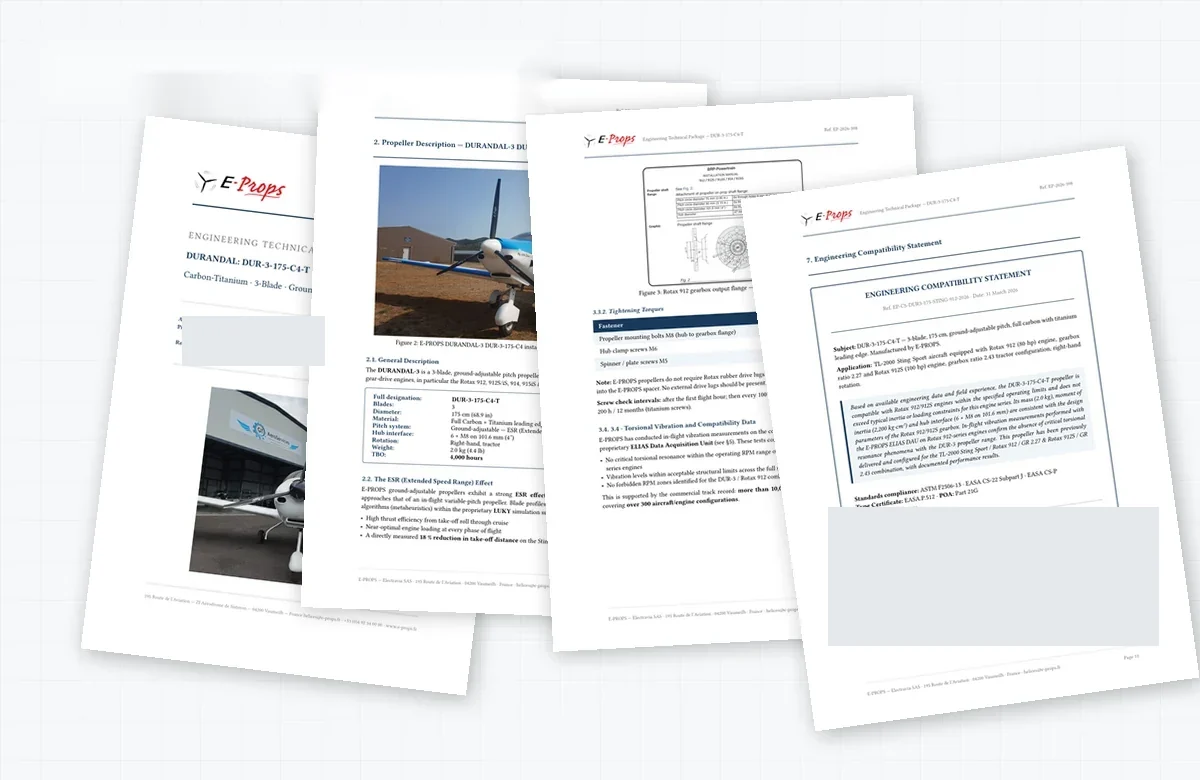
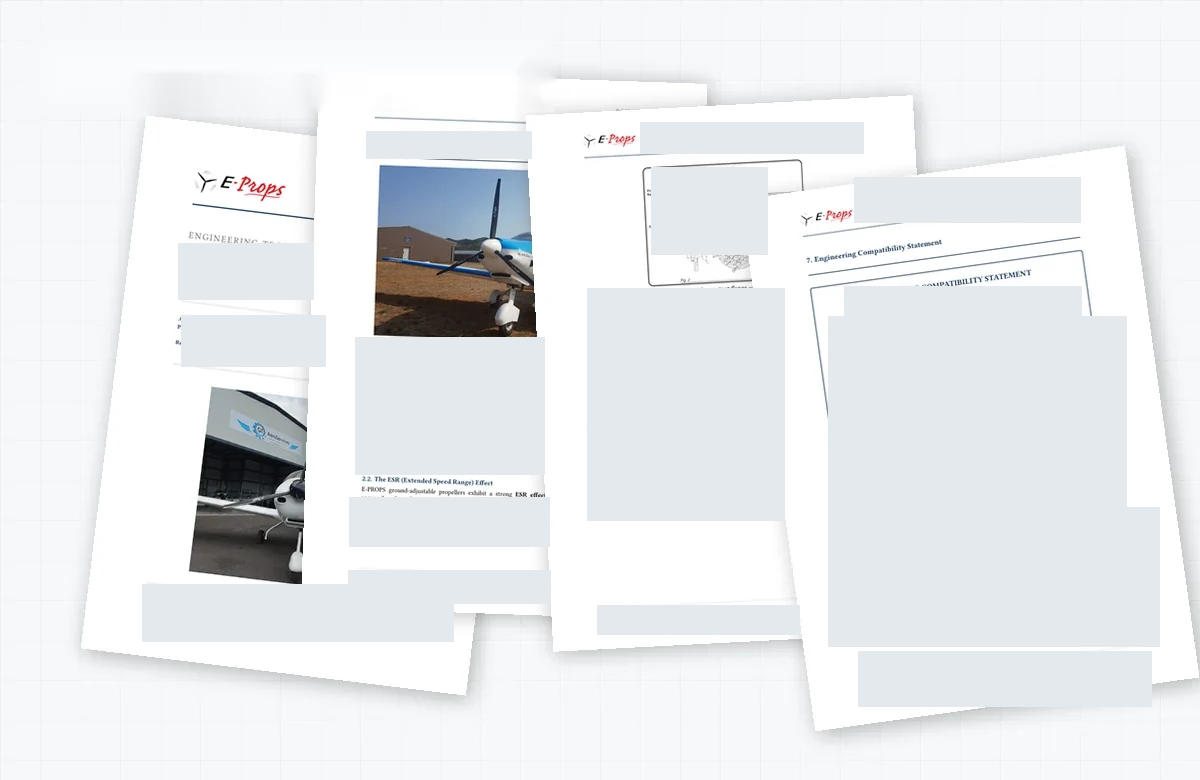
Correct owner-facing copy, case presentation, FAQ anchors and proof redactions

diff --git a/templates/site.js b/templates/site.js
@@ -11,15 +11,12 @@ const emit=(name,topic)=>document.dispatchEvent(new CustomEvent('lca:measurement
 document.querySelectorAll('a[href^="tel:"],a[href^="sms:"]').forEach(a=>a.addEventListener('click',()=>emit(a.href.startsWith('tel:')?'contact_call_click':'contact_text_click')));
 const form=document.querySelector('#aircraft-intake-form');
 if(form){
- document.querySelector('#native-phone').hidden=true;
- for(const option of form.elements.preferred_contact.options)option.disabled=false;
- form.noValidate=true;
  const method=form.elements.preferred_contact,email=form.elements.email,phone=form.elements.best_contact,topic=form.elements.need_type,status=document.querySelector('#form-status'),send=form.querySelector('button[type=submit]');
  let busy=false,started=false;
  const topics=new Set([...topic.options].map(o=>o.value));
  const legacy={'Prebuy':'prebuy','Records review':'records','E-PROPS propeller support':'eprops','ROTAX Alert Service Bulletin / applicability review':'notice','ROTAX engine systems / troubleshooting':'symptom','Avionics / Electrical / Panel Support':'avionics','Five-Year Rubber Hose Package':'service'};
  const query=new URLSearchParams(location.search),requested=query.get('topic')||query.get('need')||query.get('need_type')||(query.get('request')==='rotax-asb-review'?'notice':'');
- if(requested){const value=topics.has(requested)?requested:legacy[requested];if(value){topic.value=value;const info=document.querySelector('#topic-prefill');info.hidden=false;info.textContent='Selected topic: '+topic.selectedOptions[0].textContent+'. You can change it below.'}}
+ if(requested){const value=topics.has(requested)?requested:(Object.hasOwn(legacy,requested)?legacy[requested]:null);if(topics.has(value)){topic.value=value;const info=document.querySelector('#topic-prefill');info.hidden=false;info.textContent='Selected topic: '+topic.selectedOptions[0].textContent+'. You can change it below.'}}
  // Remove tracking query values from the address without copying them into the payload.
  if(location.search)history.replaceState(null,'',location.pathname+location.hash);
  const sync=()=>{email.required=method.value==='email';phone.required=['phone','text'].includes(method.value);document.querySelector('#email-required').textContent=email.required?' (required)':'';document.querySelector('#phone-required').textContent=phone.required?' (required)':''};
@@ -44,4 +41,7 @@ if(form){
   }catch{announce('We could not confirm submission. Your details remain in the form. Call or text the shop before resending to avoid a possible duplicate.',false)}
   finally{clearTimeout(timer);busy=false;send.disabled=false;send.textContent='Send inquiry';form.removeAttribute('aria-busy')}
  });
+ document.querySelector('#native-phone').hidden=true;
+ for(const option of form.elements.preferred_contact.options)option.disabled=false;
+ form.noValidate=true;
 }

diff --git a/templates/site.css b/templates/site.css
@@ -211,6 +211,8 @@ textarea { min-height: 100px; }
 .case-panel { display: grid; align-content: center; justify-items: start; gap: 12px; padding: clamp(16px,3vw,40px); border-radius: 8px; background: var(--navy); }
 .case-panel .stage-rail::before { background: white; }
 .case-panel .stage-rail li { border-color: white; }
+.case-panel .stage-rail .done { background: white; color: var(--navy); }
+.case-panel .stage-rail .pending { background: transparent; color: white; }
 .case-panel .pill { margin: 0; }
 .case-evidence { display: grid; grid-template-columns: repeat(2,minmax(0,1fr)); align-items: start; gap: 16px; }
 .case-evidence:not(:empty) { margin-block: 20px; }
@@ -236,15 +238,17 @@ textarea { min-height: 100px; }
   .case-intro h2 { font-size: clamp(1.8rem,2.2vw,2.1rem); }
   .case-intro h3 { font-size: 1.2rem; }
   .case-intro .stage-rail { margin-top: 0; }
-  .case-stages section { display: block; padding-block: 9px; }
+  .case-stages section { display: block; padding-block: 7px; }
   .case-stages h3,.case-stages p { display: inline; }
   .case-stages h3 { margin-right: .5em; }
   .case-evidence,.case-strip { grid-template-columns: repeat(3,minmax(0,1fr)); }
   .case-strip { max-width: none; margin-top: 16px; }
   .case-evidence .document { grid-column: auto; }
+  .case-evidence .document:has([data-subject="ndt-magnetic-particle-report"]) { grid-column: span 2; }
+  .legend b { overflow-wrap: normal; }
+  .legend { display: grid; grid-template-columns: repeat(4,minmax(0,1fr)); gap: 16px; }
 }
 @media(min-width:1200px) {
-  .legend { display: grid; grid-template-columns: repeat(7,minmax(0,1fr)); gap: 16px; }
   .method:has(> :nth-child(7)) { grid-template-columns: repeat(12,minmax(0,1fr)); }
   .method:has(> :nth-child(7)) li { grid-column: span 3; }
   .method:has(> :nth-child(7)) li:nth-child(n+5) { grid-column: span 4; }

diff --git a/tools/compositions.py b/tools/compositions.py
@@ -63,9 +63,10 @@ def home(p,site,img,actions,cases,notices):
     result+=band(f'<div class="intro"><h2>{E(title)}</h2><p>{E(intro)} <a href="/start-with-the-symptom">Start with the symptom</a></p></div><div class="tiles">{tiles}</div>')
     label,title,body=p['system']
     result+='<section class="system-band">'+img.figure('aircraft-open-cowling-under-canopy-800','band')+f'<div><p class="eyebrow">{E(label)}</p><h2>{E(title)}</h2><p>{E(body)}</p>{chips(site["systems"])}<a href="/the-lima-charlie-aero-standard">How we work →</a></div></section>'
-    title,intro=p['stories']
+    title,intro=p['stories'] if cases else p['empty_stories']
+    work_link='Explore our work' if cases else 'See more of our work'
     stories=case_stories(cases[:2],img.figure,True) if cases else gallery(p['proof'][:4],img)
-    result+=band(f'<div class="intro"><h2>{E(title)}</h2><p>{E(intro)}</p></div>{stories}<a href="/our-work">Explore our work</a>','sand')
+    result+=band(f'<div class="intro"><h2>{E(title)}</h2><p>{E(intro)}</p></div>{stories}<a href="/our-work">{work_link}</a>','sand')
     result+=band('<h2>'+E(p['method'])+'</h2>'+step_list(p['steps']))
     if notices:result+=band(notices,'notice-section')
     label,title,body=p['founder']
@@ -107,7 +108,7 @@ def service_page(key,p,pages,site,img,actions,cases,notices,table):
     proof=p['proof']
     if key=='rotax-gearbox-propeller-vibration':
         pair=[i for i in proof if 'dynavibe-' in i['proof_id'] and ('good-' in i['proof_id'] or 'bad-' in i['proof_id'])]
-        result+=band('<h2>Before and after the correction</h2><div class="pair">'+''.join(img.figure(i['proof_id'],caption=t) for i,t in zip(sorted(pair,key=lambda i:i['proof_id']),['Initial measurement: 1.27 IPS.','After correction: 0.04 IPS.']))+'</div><p>Measured 1.27 IPS → 0.04 IPS after correction.</p>')
+        result+=band('<h2>Measured, not guessed</h2><div class="pair">'+''.join(img.figure(i['proof_id'],caption=i['caption']) for i in pair)+'</div>')
         proof=[i for i in proof if i not in pair]
     result+=band('<h2>From the work</h2>'+gallery(proof[:4],img))
     used.update(i for i, section in enumerate(sections)
@@ -116,7 +117,7 @@ def service_page(key,p,pages,site,img,actions,cases,notices,table):
     result+=band('<h2>Service details</h2>'+table+themed_sections(p,site,used,extra),'sand')
     if key in ['rotax-915-916-turbo-ems-support','rotax-gearbox-propeller-vibration']:result+=band(notices)
     related=related_cases(cases,plan.get('cases',[]))
-    return result+band('<aside class="limits"><h2>Authorization &amp; limits</h2><p>'+E(model['limits'])+'</p></aside>'+related+links([('/services','All services'),('/our-work','Our Work')]))+band(actions(p['topic']),'final')
+    return result+band('<aside class="limits"><h2>'+E(model.get('limits_heading','Authorization & limits'))+'</h2><p>'+E(model['limits'])+'</p></aside>'+related+links([('/services','All services'),('/our-work','Our Work')]))+band(actions(p['topic']),'final')
 
 def showcase(key,p,pages,site,img,actions,cases,notices,table):
     if key=='index':return home(p,site,img,actions,cases,notices)
@@ -124,7 +125,8 @@ def showcase(key,p,pages,site,img,actions,cases,notices,table):
     result=hero(p,key,img,actions)
     if key=='our-work':
         legend='<ol class="legend">'+''.join(f'<li><b>{name}</b> {text}</li>' for name,text in STAGES.items())+'</ol>'
-        return result+band('<h2>How we document the work</h2>'+legend)+band(case_stories(cases,img.figure) if cases else '<h2>Evidence from the work</h2>'+gallery(pages['index']['proof'][:4],img)+links([('/rotax-installation-review','Installation review'),('/rotax-gearbox-propeller-vibration','Vibration measurements')]),'sand')+band('<aside class="limits"><h2>What these cases do and don’t show</h2><p>'+E(p['limits'])+'</p></aside>'+actions())
+        limits_title = 'What these cases do and don’t show' if cases else 'What these photographs show'
+        return result+band('<h2>How we document the work</h2>'+legend)+band(case_stories(cases,img.figure) if cases else '<h2>Evidence from the work</h2>'+gallery(pages['index']['proof'][:4],img)+links([('/rotax-installation-review','Installation review'),('/rotax-gearbox-propeller-vibration','Vibration measurements')]),'sand')+band('<aside class="limits"><h2>'+limits_title+'</h2><p>'+E(p['limits'])+'</p></aside>'+actions())
     if key=='services':
         rows=[(t['destination'],t['title'],t.get('index_image',t['image']),t['line']) for t in pages['index']['tiles']]
         result+=band('<h2>Aircraft systems and service paths</h2>'+system_map(site))+band('<h2>Choose a starting point</h2>'+service_index(rows,img),'sand')
@@ -142,7 +144,9 @@ def showcase(key,p,pages,site,img,actions,cases,notices,table):
     for n,s in enumerate([] if p.get('themes') else p['sections']):
         if key=='the-lima-charlie-aero-standard' and s['heading'][:1].isdigit():continue
         ident='credentials' if key=='contact' and n==1 else f'section-{n+1}'
-        if len(p['sections'])>5 or key=='faq':substantive.append(details(s,site,ident))
+        if key=='faq':
+            substantive.append(f'<div id="{ident}">'+details(s,site,f'question-{n+1}')+'</div>')
+        elif len(p['sections'])>5:substantive.append(details(s,site,ident))
         else:substantive.append(f'<section id="{ident}"><h2>{E(s["heading"])}</h2>'+paragraph(s,site)+'</section>')
     if substantive:result+=band('<div class="prose">'+''.join(substantive)+'</div>')
     if p.get('proof') and key!='the-lima-charlie-aero-standard':result+=band('<h2>From the work</h2>'+gallery(p['proof'],img),'sand')

diff --git a/tools/redact_proof.py b/tools/redact_proof.py
@@ -1,17 +1,40 @@
-"""Regenerate privacy-safe document previews from an approved baseline export.
-Usage: python3 tools/redact_proof.py /path/to/exported/baseline
-No source documents are copied into the public output.
-"""
+"""Regenerate the two publication derivatives from the 3d48ea6 baseline export."""
 from pathlib import Path
-from PIL import Image,ImageDraw
-import sys
-R=Path(__file__).resolve().parents[1];B=Path(sys.argv[1]);dest=R/'assets-src/images/proof'
-# Coordinates are normalized against the inspected 1200px baseline previews.
-specs={
-'eprops-install-checklist-preview-1200':[(.12,.252,.45,.375),(.119,.63,.465,.805),(.55,.30,.93,.368),(.55,.423,.935,.468),(.55,.758,.92,.807)],
-'eprops-engineering-packet-fanout-1200-clean':[(.152,.405,.27,.468),(.69,.65,.965,.827)]
+import argparse
+from PIL import Image, ImageDraw
+
+ROOT = Path(__file__).resolve().parents[1]
+# Inclusive native pixel coordinates. The packet repeats identifiers in running
+# heads, figure legends, tables and footers on several overlapping sheets.
+MASKS = {
+    'eprops-install-checklist-preview-1200': ((1200, 760), [
+        (144,191,542,286), (142,478,559,614), (660,228,1117,280),
+        (660,321,1123,356), (660,576,1105,614),
+        (146,137,580,155), (147,646,312,664), (663,305,886,323),
+    ]),
+    'eprops-engineering-packet-fanout-1200-clean': ((1200, 780), [
+        (181,315,325,366), (828,507,1159,646),
+        (178,243,313,299), (142,584,453,641), (366,131,531,158),
+        (355,337,544,474), (349,497,549,546), (348,570,550,603),
+        (640,122,863,153), (651,167,767,254), (587,288,784,520),
+        (597,605,799,634), (854,177,1080,222), (844,286,1081,320),
+        (828,316,1126,509), (858,651,1151,706),
+    ]),
 }
-for name,rects in specs.items():
- src=B/'assets/images/eprops/proof'/f'{name}.webp';im=Image.open(src).convert('RGB');d=ImageDraw.Draw(im)
- for x1,y1,x2,y2 in rects:d.rectangle((round(x1*im.width),round(y1*im.height),round(x2*im.width),round(y2*im.height)),fill='#e4e9ed')
- im.save(dest/f'{name}.webp','WEBP',quality=86,method=6)
+
+def redact(baseline):
+    for name, (size, masks) in MASKS.items():
+        src = baseline / 'assets/images/eprops/proof' / (name + '.webp')
+        with Image.open(src) as original:
+            if original.size != size:
+                raise ValueError(f'Unexpected source dimensions for {name}')
+            image = original.convert('RGB')
+        draw = ImageDraw.Draw(image)
+        for rect in masks:
+            draw.rectangle(rect, fill='#e4e9ed')
+        image.save(ROOT/'assets-src/images/proof'/(name+'.webp'), lossless=True, method=6)
+
+if __name__ == '__main__':
+    parser = argparse.ArgumentParser(description=__doc__)
+    parser.add_argument('baseline', type=Path)
+    redact(parser.parse_args().baseline)

diff --git a/tools/render_site.py b/tools/render_site.py
@@ -63,6 +63,8 @@ def render_site(out, site, pages, public, published, amap, metadata, registry, c
         (out / (key + '.html')).write_text(markup, encoding='utf-8', newline='\n')
         routes.append({'route': route, 'file': key + '.html', 'last_modified': p.get('last_modified', site['date']), 'indexed': indexed})
     for key, p in pages.items():
+        if key == 'our-work' and not cases:
+            p = {**p, **p['empty']}
         if key == 'card':
             body = f'''<div class="container"><section class="utility-card"><h1>{E(p['heading'])}</h1><p>{E(p['intro'])}</p><p>ROTAX · Light-sport · E-PROPS · Avionics</p><a class="button" href="{asset('assets/downloads/joseph-helminiak-lima-charlie-aero.vcf')}" download="Joseph-Helminiak-Lima-Charlie-Aero.vcf">Save contact</a>{actions()}<a href="mailto:{site['email']}">{site['email']}</a></section></div>'''
         else:
@@ -77,6 +79,8 @@ def render_site(out, site, pages, public, published, amap, metadata, registry, c
         p = {'title': r['title'], 'description': r['summary'], 'last_modified': r['last_modified']}
         meta = f"""<p class="meta">Published {r['published']} · Substantive update {r['last_modified']}""" + (f" · Source checked {r['last_review']}" if r['type'] == 'notice' else '') + '</p>'
         review = f"""<p class="source-note">Review status: source checked {r['last_review']}; next review {r['next_review']}. Reviewer: {E(r['reviewer'])}.</p>""" if r['type'] == 'notice' else ''
+        if r.get('source_note'):
+            review = '<p class="source-note">' + E(r['source_note']) + '</p>'
         state = f"""<p class="notice-strip">This entry is {r['state']}. """ + (f"""<a href="/{E(r['replaced_by'])}">Read the replacement notice</a>.""" if r.get('replaced_by') else 'It is retained for reference; check current source documents.') + '</p>' if r['state'] != 'published' else ''
         doc = f"""<p><strong>Manufacturer reference:</strong> {E(r['document'])} · Issue {r['issue_date']}</p><p class="meta">Supersedes {E(r.get('supersedes', ''))}. Source documents were checked; this is not an aircraft compliance determination. Check the manufacturer portal for later revisions.</p>""" + review if r['type'] == 'notice' else ''
         sources = '<h2>Official source documents</h2><ul class="source-list">' + ''.join((f'''<li><a href="{safe_link(u)}">{('Manufacturer document: ' + E(r.get('document', '')) if i == 0 else 'ROTAX technical documentation portal' if 'technical-documentation' in u else ('FAA AD 2026-22-03 — official rule' if '2026-22307' in u else 'FAA AD 2026-16-11 — official rule') if 'govinfo.gov' in u else 'EASA AD 2026-0170 — official record' if 'ad.easa.europa.eu' in u else urlparse(u).netloc)}</a></li>''' for i, u in enumerate(r['sources']))) + '</ul>' if r['sources'] else ''

diff --git a/tools/editorial.py b/tools/editorial.py
@@ -9,7 +9,7 @@ def select_editorial(records, pages, asof):
         for key in ['slug', 'type', 'title', 'owner_question', 'summary', 'body', 'state', 'published', 'last_modified', 'last_review', 'next_review', 'reviewer', 'sources']:
             if key not in r:
                 raise ValueError('Missing ' + key)
-        if not all((isinstance(r[k], str) and r[k].strip() for k in ['title', 'owner_question', 'summary', 'reviewer'])):
+        if not all((isinstance(r[k], str) and r[k].strip() for k in ['title', 'owner_question', 'summary'])) or not (r['reviewer'] or r.get('source_note')):
             raise ValueError('Empty required editorial field')
         if not isinstance(r['body'], list) or not r['body'] or (not all((isinstance(t, str) and t.strip() for t in r['body']))):
             raise ValueError('Body needs nonempty paragraphs')
